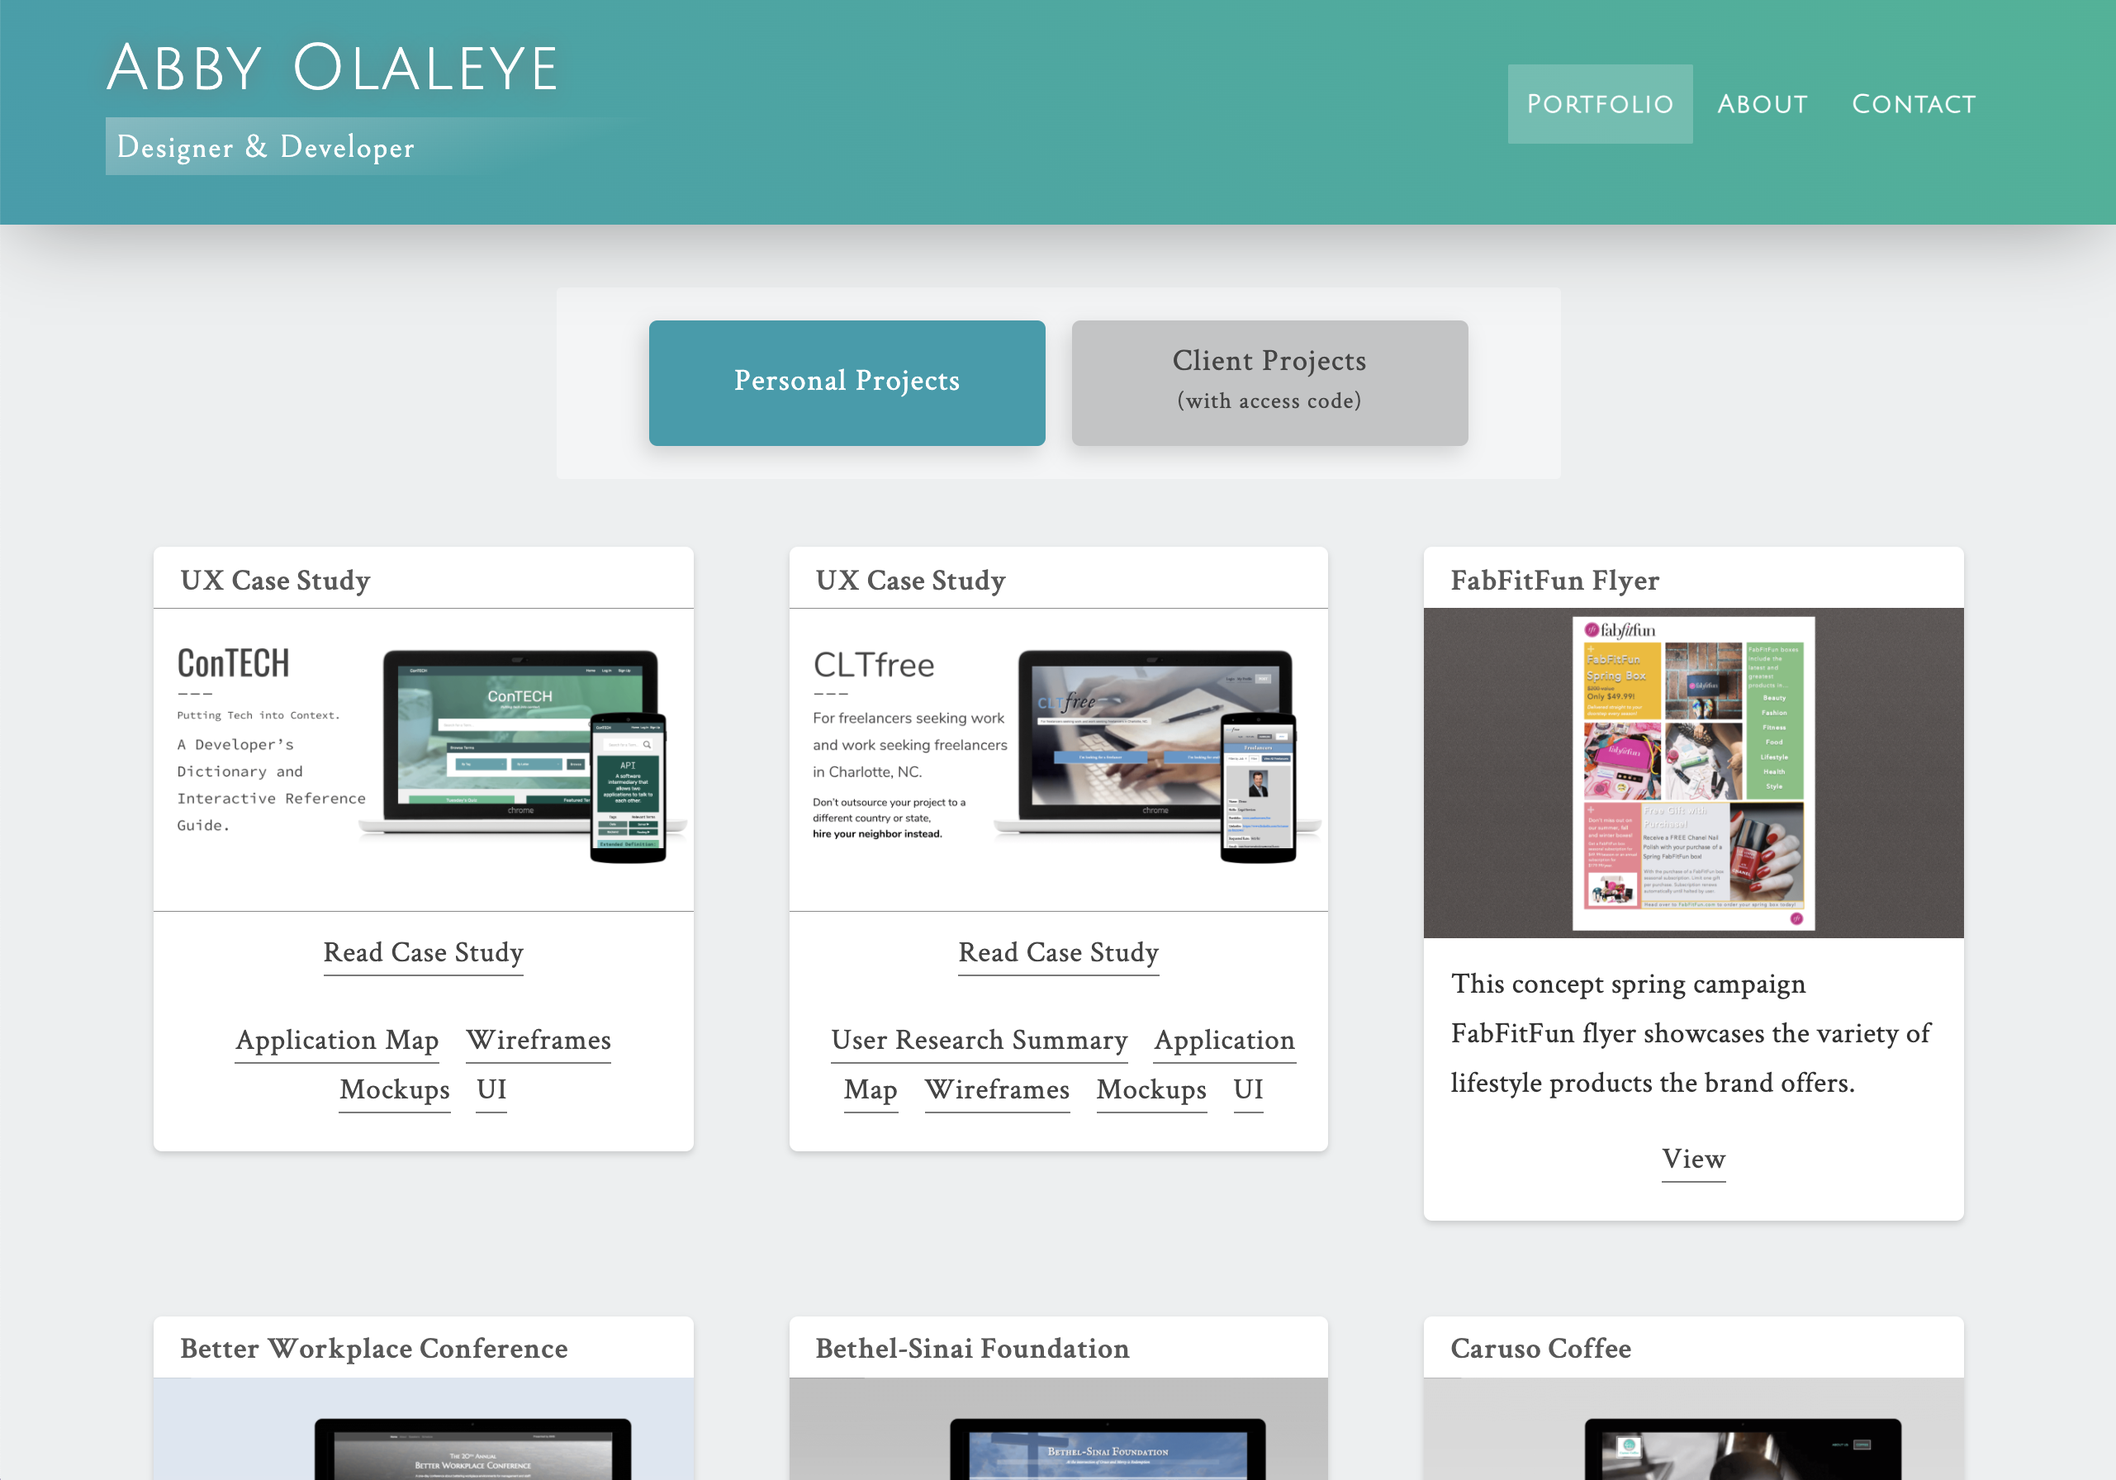
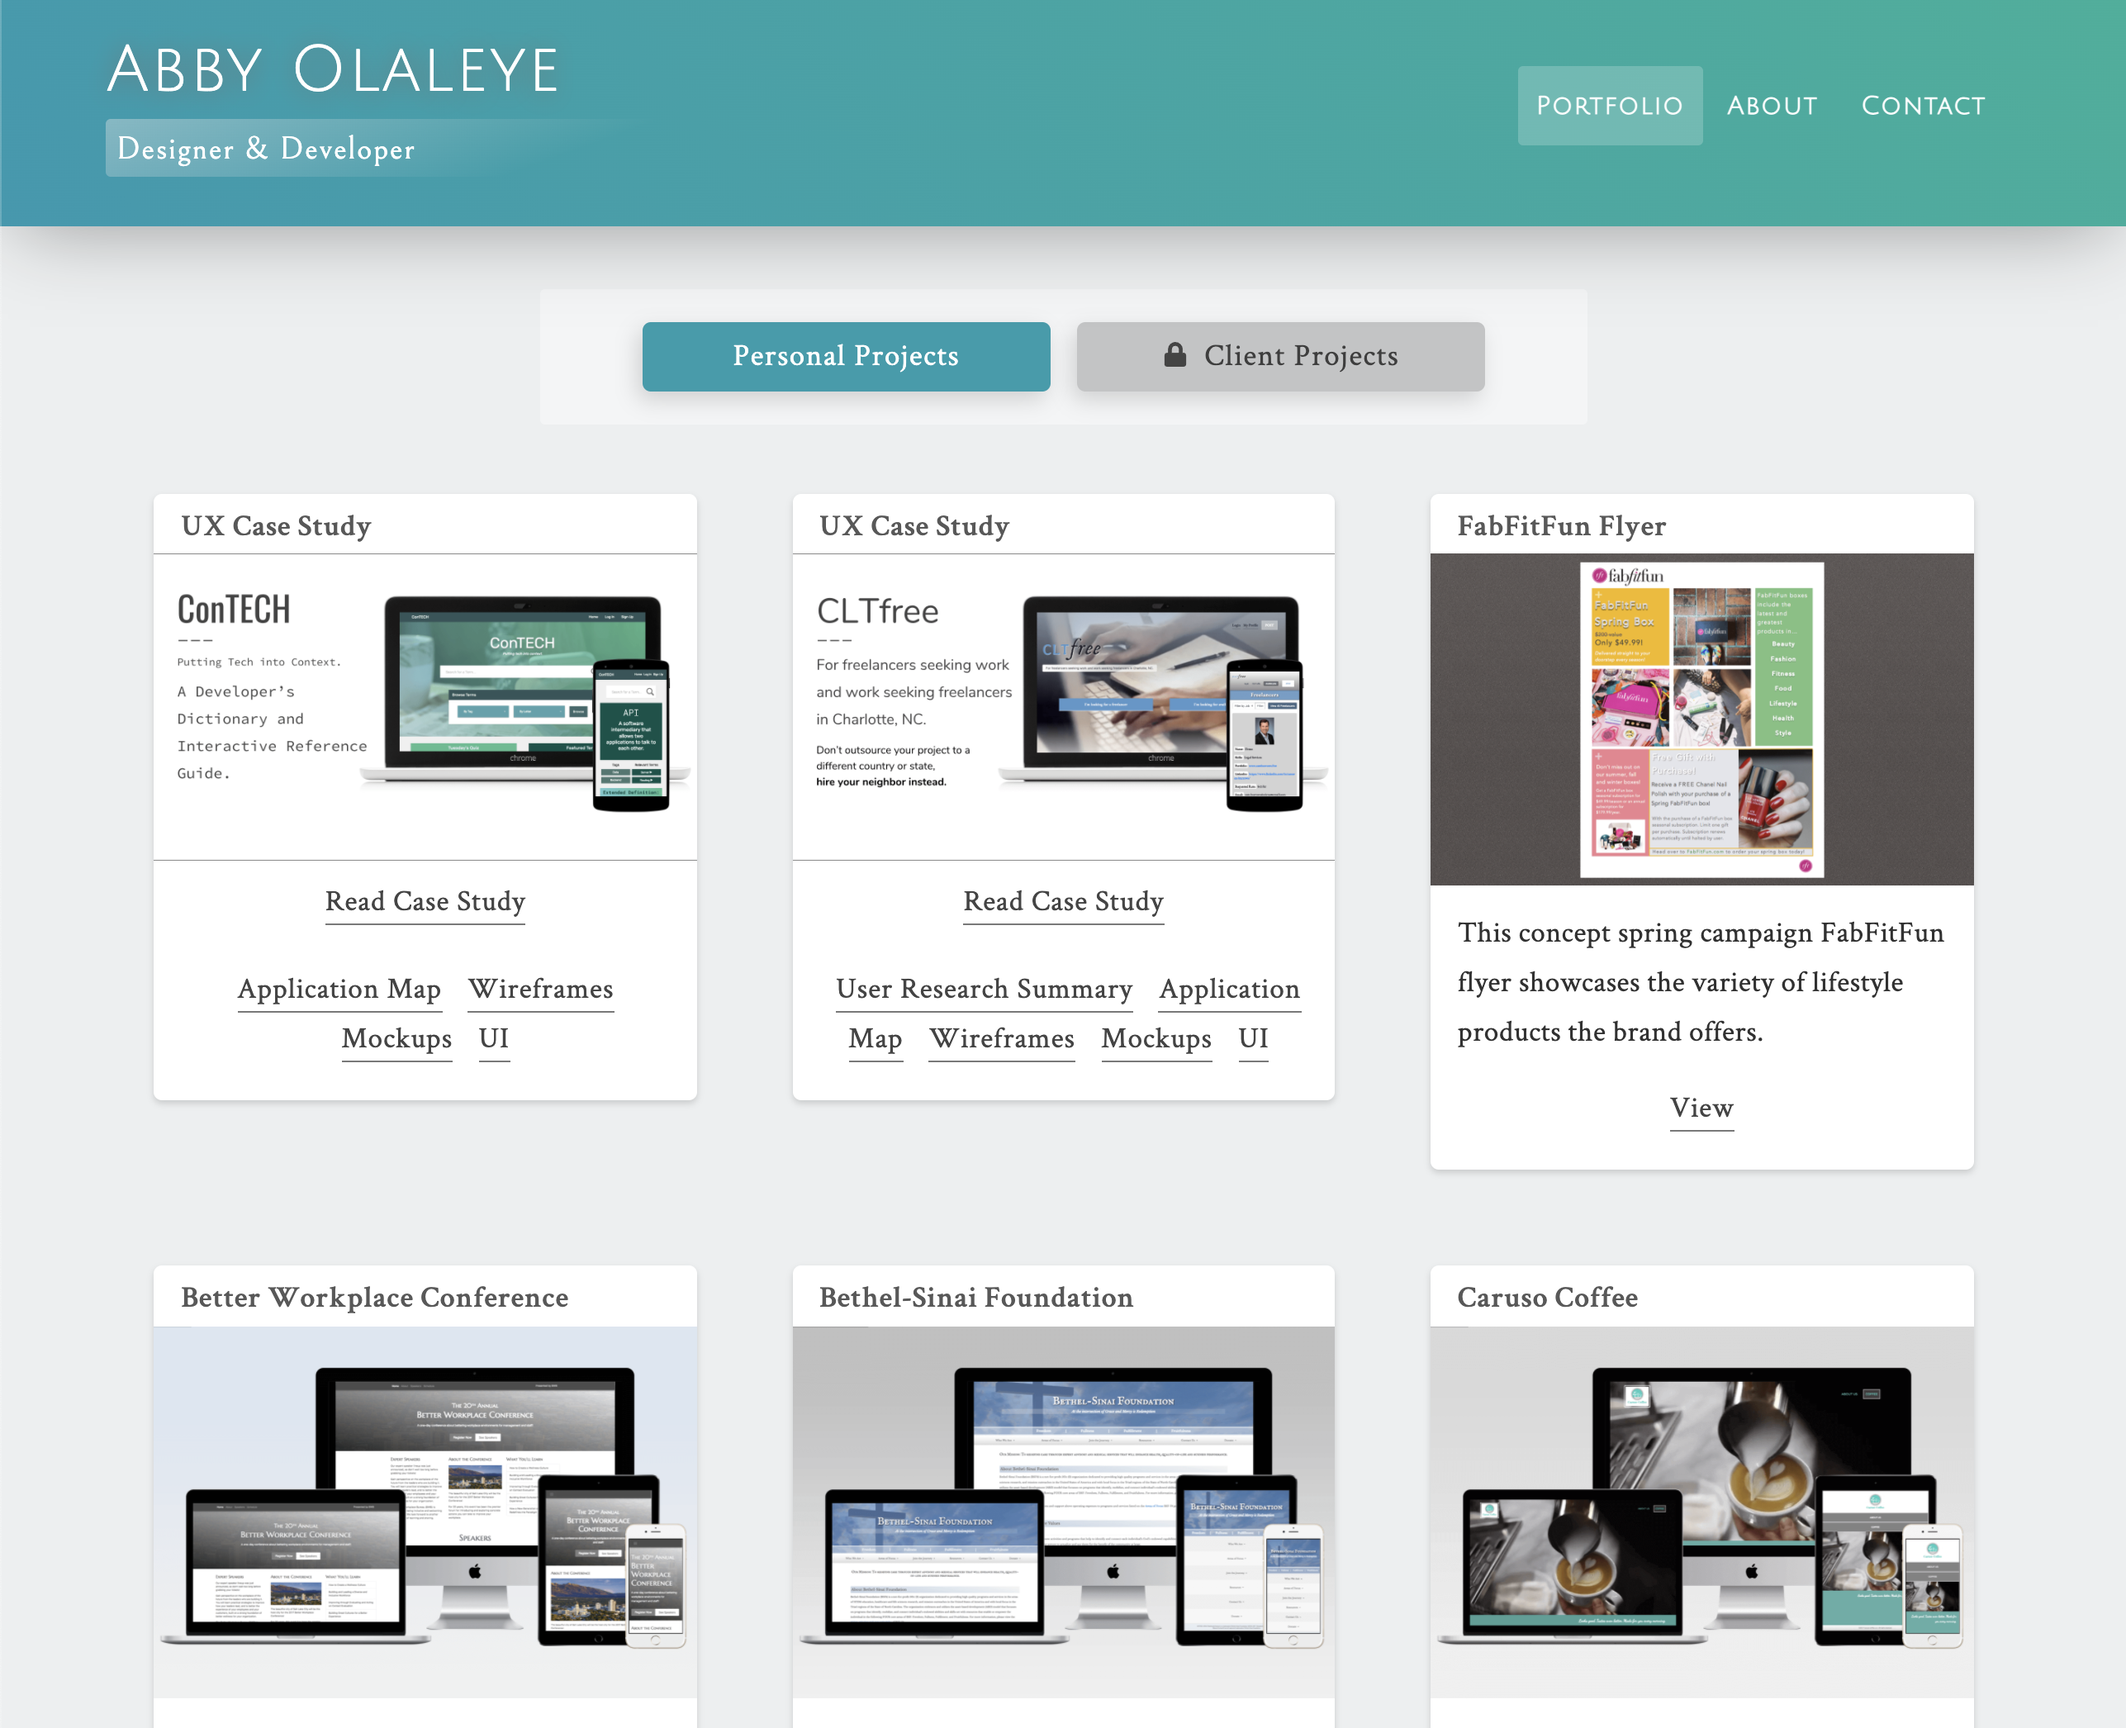
update layout

diff --git a/js/app.js b/js/app.js
@@ -6,6 +6,12 @@ $(document).ready(function(){
     $(".dev-category").css({"background": "#189dac"});
     $(".dev-category").css({"color": "white"});
 
+    $(".ux-category").hover(function(){
+        $(".lock-icon").css({"filter": "brightness(0) invert(1)"});
+        }, function(){
+        $(".lock-icon").css({"filter": "none"});
+    });
+
     var category = ['dev', 'ux', 'ui']
     var p = 0;
 
@@ -15,7 +21,9 @@ $(document).ready(function(){
 
             for (j = 0; j < category.length; j++) {
                 $("." + category[j] + "-category").css({"background": "rgba(123, 122, 122, 0.4)"});
-                $("." + category[j] + "-category").css({"color": "#444"});
+                $("." + category[j] + "-category").css({"color": "#3e3e3e"});
+                $(".lock-icon").css({"filter": "none"});
+
                 $("." + category[j]).hide();
 
                 var selected = category[p];
@@ -24,6 +32,19 @@ $(document).ready(function(){
                     $("." + selected).show();
                     $("." + selected + "-category").css({"background": "#189dac"});
                     $("." + selected + "-category").css({"color": "white"});
+                    $(".lock-icon").css({"filter": "brightness(0) invert(1)"});
+                    $(".ux-category").hover(function(){
+                        $(".lock-icon").css({"filter": "brightness(0) invert(1)"});
+                    });
+                }
+
+                if (selected === 'dev') {
+                    $(".lock-icon").css({"filter": "none"});
+                    $(".ux-category").hover(function(){
+                        $(".lock-icon").css({"filter": "brightness(0) invert(1)"});
+                        }, function(){
+                        $(".lock-icon").css({"filter": "none"});
+                    });
                 }
 
                 if (mq.matches) {
@@ -37,11 +58,13 @@ $(document).ready(function(){
                                 backgroundColor: "#56b6c1",
                                 color: 'white',
                                 }, 1);
+                                $(".lock-icon").css({"filter": "brightness(0) invert(1)"});           
                             } else {
                                 $(this).animate({
                                 backgroundColor: "rgba(123, 122, 122, 0.4)",
-                                color: '#444',
+                                color: '#3e3e3e',
                                 }, .1 );
+                                $(".lock-icon").css({"filter": "none"});                                
                             }
                             hovered = !hovered;
                         }
@@ -54,6 +77,7 @@ $(document).ready(function(){
                                 backgroundColor: "#189dac",
                                 color: 'white',
                                 }, .1);
+                            // $(".lock-icon").css({"filter": "brightness(0) invert(1)"});
                         }
                     );
                 }

diff --git a/css/main.css b/css/main.css
@@ -83,14 +83,14 @@ header {
   justify-content: center;
   text-align: center;
   background: rgba(123, 122, 122, 0.4);
-  padding: .5rem;
+  padding: .25rem 1rem;
   border-radius: 5px;
   min-width: 30%;
   cursor: pointer;
   transition-duration: .4s;
   box-shadow: -3px 5px 13px 0 rgba(0, 0, 0, 0.15); 
   margin: 0 .5rem;
-  color: #444;
+  color: #3e3e3e;
 }
 
 .filter li:hover {
@@ -99,8 +99,9 @@ header {
 }
 
 .filter li .subnote {
-  margin: -5px 0 0;
+  /* margin: -5px 0 0; */
   font-size: 14px;
+  margin: 4px 0 -8px;
 }
 
 /* .ux img {
@@ -125,6 +126,7 @@ h2 {
   margin-top: 2px;
   background: rgba(255, 255, 255, 0.15);
   letter-spacing: 1px;
+  border-radius: 3px;
 }
 
 .main-name {
@@ -381,6 +383,12 @@ PAGE: PORTFOLIO
   margin: 0;
 }
 
+.input {
+  border-color: #007e8d;
+  border-radius: 3px;
+  margin: .5rem 0;
+}
+
 .client-access-form:hover {
   box-shadow: none !important;  
   transform: none !important;
@@ -389,7 +397,7 @@ PAGE: PORTFOLIO
 .client-access-button {
   font-family: 'Crimson Text', serif;
   border-radius: 5px;
-  padding: 5px 1rem;
+  padding: 5px 1rem 7px;
   border: none;
   background-color:#658fa3;
   color: #fff;
@@ -398,7 +406,7 @@ PAGE: PORTFOLIO
 }
 
 .client-access-button:hover {
-  background-color: #274b5c;
+  background-color: #123646;
 }
 
 .error-message {
@@ -411,6 +419,19 @@ PAGE: PORTFOLIO
 .error-message,
 .client-access-form {
   display: none;
+}
+
+.lock-icon {
+  width: 15px;
+  height: 15px;
+  margin: 0 10px 0 0;
+  transition-duration: .3s;
+}
+
+.ux-category {
+  display: flex !important;
+  flex-direction: row !important;
+  align-items: center !important;
 }
 
 /***********************************
@@ -1367,14 +1388,14 @@ Responsive Layout
 
   nav a:hover {
     text-decoration: none;
-    border-radius: 1px;
+    border-radius: 3px;
     background: rgba(255, 255, 255, 0.2);
     color: #fff;
   }
 
   nav a.selected {
     text-decoration: none;
-    border-radius: 1px;
+    border-radius: 3px;
     background: rgba(255, 255, 255, 0.2);
     color: #fff;
   }
@@ -1465,7 +1486,7 @@ Responsive Layout
   }
   
   .filter li {
-    padding: .5rem 3rem .8rem;
+    padding: 0.25rem 3rem 0.5rem;
     font-size: 1.1em;
     margin: 0 .5rem;
     /* border: 2px solid white; */

diff --git a/index.html b/index.html
@@ -52,8 +52,8 @@
       <li class="ui-category">UI</li> -->
       <li class="dev-category">Personal Projects</li>
       <li class="ux-category">
-        Client Projects
-        <p class="subnote">(with access code)</p>
+        <img src="svg/lock.svg" alt="lock icon" class="lock-icon">Client Projects
+        <!-- <p class="subnote"><img src="svg/lock.svg" alt="lock icon" class="lock-icon"></p> -->
       </li>
     </ul>
     <div class="portfolio-wrapper">
@@ -61,7 +61,7 @@
         <ul id="gallery" class="gallery-row"><!-- Gallery -->
           <li class="ux client-access-form">
             <p class="input-label">Please enter access code:</p>
-            <div><input class="access-password"></div>
+            <div><input class="input"></div>
             <div><button class="client-access-button">Submit</button></div>
             <p class="error-message">Incorrect code.</p>
           </li>
